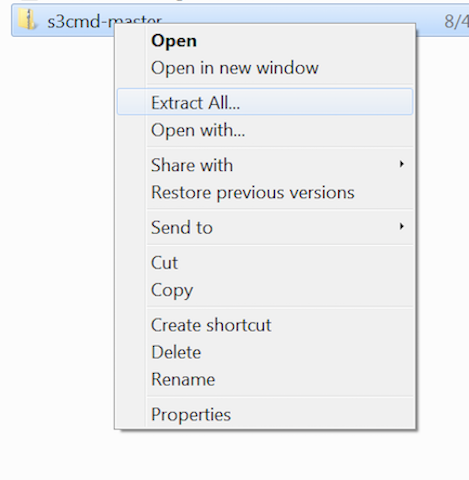
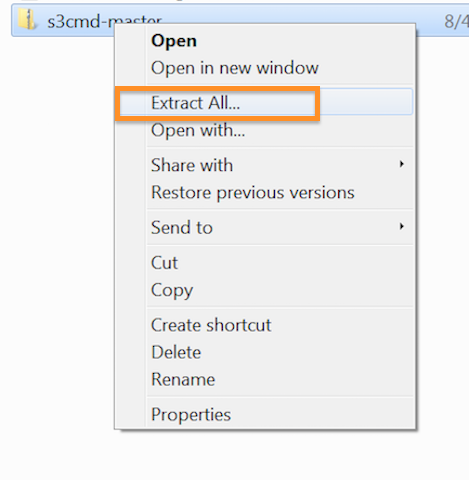
getting close w/ docs

Changed region(s): [[0.2388, 0.1562, 0.6866, 0.2812]]

diff --git a/workshop/iggy101/docs/s3cmd.md b/workshop/iggy101/docs/s3cmd.md
@@ -1,4 +1,4 @@
-#S3cmd lab
+# S3cmd lab
 
 **Note: in order to run this lab, you'll need to have completed the pre-requisites previously defined**
 
@@ -19,7 +19,7 @@ After you have completed this lab, you will have done the following items using 
 
 ## Configuration
 
-By default, s3cmd will try and look for a file named `.s3cfg` in your homedirectory (`windows users`: this location may vary).  If you will be using s3cmd a lot, it makes sense for you to populate this file with the parameters required to connect to the Igneous DataService which your administrator has provided you access to.  
+By default, s3cmd will try and look for a file named `.s3cfg` in your homedirectory (`windows users`: this will end up in `%homepath%\AppData\Roaming\s3cmd.ini`).  If you will be using s3cmd a lot, it makes sense for you to populate this file with the parameters required to connect to the Igneous DataService which your administrator has provided you access to.  
 
 If you have access to the Igneous management interface (some of you may), you can follow the steps listed in the [Quick Start Guide](https://community.igneous.io/hc/en-us/articles/223443448) .  
 
@@ -32,7 +32,7 @@ If you do not have access to the Igneous Management interface, you will need to 
 
 Luckily, Igneous provides the ability for your administrator to send you a fully populated, personalized `.s3cfg` file which can easily be put into place on your local system.
 
-Once you have received an `.s3cfg` file from your administrator, open it up in a text editor (windows users, use wordPad):
+Once you have received an `.s3cfg` or `s3cmd.ini` file from your administrator, open it up in a text editor (windows users, use wordPad):
 
 Inside, you should see contents similar to:
 
@@ -45,28 +45,37 @@ Inside, you should see contents similar to:
 
 The access_key and secret_key can also be used in other applications which require those parameters (such as a python script, or an application such as CyberDuck or ARQ).  Check with your lab instructor or administrator to ensure that the host_base value is correct for the system you will be connecting to.  Assuming all is well, you can simply copy this file:
 
-**Mac & Linux users**:
-
-    cp /path/to/downloaded/s3cfg_file ~/.s3cfg
 
 **Windows users**:
 
-***NEED TO FILL THIS IN***
+You should have received both a `.s3cfg` and a `s3cmd.ini` file.  Save the `s3cmd.ini` file to `c:\Users\%username%\AppData\Roaming`
 
+
+**Mac & Linux users**:
+1. Open up a terminal
+2.  Run the following command:
+
+    cp /path/to/downloaded/s3cfg_file ~/.s3cfg
 
 ##Test connection & List buckets
 
 The simplest way to test if your configuration is valid is to list all buckets.  
 
-**Linux & Mac users**:
+**Windows users**:
+
+Open up an `Anaconda Prompt` window, and type:
 
     s3cmd ls
 
-**Windows users**:
+**Mac & Linux users**:
 
-    python.exe s3cmd -c %homepath%\s3cfg.cfg ls
+Open up a terminal and type:
 
-If you see a list of buckets similar to this, then you're OK:
+    s3cmd ls
+
+
+
+If you see a list of buckets, then you're OK:
 
     2016-02-18 05:23  s3://cs-perf-testing
     2016-01-22 20:00  s3://myBucket
@@ -76,7 +85,7 @@ If you see a list of buckets similar to this, then you're OK:
 
 ***Note: just because you can see a bucket in the list, does not mean you have access to it***
 
-###List objects in a bucket
+### List objects in a bucket
 
 ***Note: in this document as well as in others, you may see the following words used interchangeably***:
 * key
@@ -86,13 +95,9 @@ Basically, any 'file' or 'directory' that exists within the Igneous DataService 
 
 Next, you will list objects which exist within a shared bucket on your Igneous DataService.  Simply run the following command:
 
-**Linux & Mac users**:
 
     s3cmd ls s3://classbucket
 
-**Windows users**:
-
-    python.exe s3cmd ls s3://classbucket
 
 If all went well, you should see something similar to:
 
@@ -108,7 +113,7 @@ You will also want to list your own bucket, to make sure you have correct access
 
     s3cmd ls s3://$username
 
-***Note: $username should be replaced with the name of the bucket named after your login name.  It may differ from the username on your local machine***
+***Note: $username should be replaced with the name of the bucket named after your login name.  It may differ from the username on your local machine.  If in doubt, ask your lab instructor for the correct syntax***
 
 
 
@@ -118,13 +123,13 @@ You will also want to list your own bucket, to make sure you have correct access
 
 2.  Next, run the following command to upload it to your personal bucket:
 
+    **Windows Users**:
+
+        s3cmd put %homepath%\myfile.txt s3://$username
+
     **Linux & Mac Users**:
 
         s3cmd put ~/myfile.txt s3://$username
-
-    **Windows Users**:
-
-        python.exe s3cmd put %homepath%\myfile.txt s3://$username
 
     *Again, substitute the $username for your bucket, and substitute 'myfile.txt' with whatever filename you want to upload*
 
@@ -165,7 +170,7 @@ Now that you have a file or two (or more) uploaded, you can practice downloading
 
         s3cmd get s3://$username ~/s3downloads
     **Windows Users**:
-        pythonn.exe s3cmd s3://$username %homepath%\s3downloads
+        s3cmd s3://$username %homepath%\s3downloads
 
 4.  Verify you can see the files locally by navigating to your local `s3downloads` folder.
 
@@ -181,8 +186,11 @@ Once you've located an appropriate folder:
 
     s3cmd sync ~/Desktop/demo s3://andypern/backup/Desktop
 
-*note: s3cmd will create the necessary 'folder structure' , just be sure to put in the correct bucket name.*
+***note: s3cmd will create the necessary 'folder structure' , just be sure to put in the correct bucket name.***
 
 If all went well, you should see a long list of files being uploaded, completing with:
 
     Done. Uploaded 22525487 bytes in 54.0 seconds, 407.07 kB/s.
+
+
+Great job, you've completed the s3cmd lab!

diff --git a/workshop/iggy101/prereqs/windows_prereqs.md b/workshop/iggy101/prereqs/windows_prereqs.md
@@ -7,7 +7,9 @@ Note that this document was written and tested with Windows7 , but should work w
 ## Getting Python installed
 
 1.  Grab the anaconda installer for python 2.7: http://repo.continuum.io/archive/Anaconda2-4.1.1-Windows-x86_64.exe
-2.  Take all defaults.  Make sure on the 'Advanced Installation Options' page you leave both boxes Checked as shown below:
+2.  Select `All users (requires admin privileges)` .  If you do not have admin privileges, choose the `Just Me` option, however you will need to adjust some folder paths in later instructions.  
+
+3.  Make sure on the 'Advanced Installation Options' page you leave both boxes Checked as shown below:
 
 	![image](../pics/win_anaconda_install_opts.png)
 
@@ -19,7 +21,7 @@ Note that this document was written and tested with Windows7 , but should work w
 
 4.  To verify all is well, click on the 'Anaconda Prompt' icon, which should launch a command window.  Type the following into it:
 
-	python --version
+		python --version
 
 You should see something similar to:
 
@@ -38,7 +40,6 @@ There are a few ways to get python modules installed in Windows, the simplest is
 
 		Successfully installed boto3-1.4.0 botocore-1.4.43 jmespath-0.9.0 s3transfer-0.1.1
 
-
 3.  For a final check, go ahead and launch `All Programs -> Anaconda2 -> Ipython` , which should give you a window which looks like this:
 
 	![image](../pics/win_ipython_blank.png)
@@ -52,20 +53,20 @@ There are a few ways to get python modules installed in Windows, the simplest is
 You have now got python and dependancies setup and installed on Windows!
 
 
-#### S3cmd setup
+## S3cmd setup
 
 1.  Download the latest zip file from [here](https://github.com/s3tools/s3cmd/archive/master.zip)
 2.  Find the file you downloaded in Windows Explorer (usually in `Downloads`), right click, then `Extract all` .  Make sure to change the path to `c:\s3cmd`
 
 	![image](../pics/win_extract_s3cmd.png)
 
-3.  It will prompt you for where to extract it to, feel free to take the defaults, but make a note of the path you see (copy it into your clipboard to make life easier)
+	![image](../pics/win_extract_all.png)
+
 
 3.  Next you will need to open up your `Anaconda Prompt` window, and change Directories.  EG:
 
-		cd %homepath%\Downloads\s3cmd-master\s3cmd-master
+		cd c:\s3cmd\s3cmd-master
 
-	*Note that if the directory you downloaded the zip file to was not in your Downloads folder, you will need to adjust*
 4.  Run the following command to install s3cmd:
 
 		python setup.py install
@@ -83,9 +84,23 @@ It should return something like this:
 1.  Open up `notepad`
 2.  Put the following text in:
 
-	python.exe %homepath%\s3cmd-master\s3cmd %*
+	python.exe c:\s3cmd\s3cmd-master\s3cmd %*
 3.  Save the file into `c:\Anaconda2` , and name it `s3cmd.bat`
 
 	***Make sure to change the 'Save as type' to 'all files'***
 
 	![image](../pics/win_save_bat.png)
+
+4.  Close out of your anaconda window, and re-open
+5.  You should now be able to simply run:
+
+		s3cmd --version
+
+## CloudBerry & CyberDuck
+
+For a graphical interface to Igneous and S3, you can follow either or both of these guides to get CloudBerry S3 Explorer & Cyberduck installed and configured on your system:
+
+* [CloudBerry S3 Explorer Free](https://community.igneous.io/hc/en-us/articles/222825147-CloudBerry-S3-Explorer-Free)
+* [Cyberduck](https://community.igneous.io/hc/en-us/articles/222874108-Cyberduck-guide)
+
+Now you have your pre-requisites taken care of.
